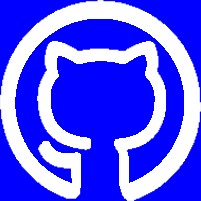
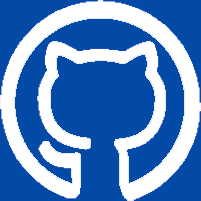
Added images for About Page and cleaned up some color in footer

diff --git a/css/style.css b/css/style.css
@@ -407,7 +407,7 @@ h6 {
 }
 /* Footer Content */
 .footerBlue {
-  background: #0000FF;
+  background: #034AA6;
   color: #ffffff;
   padding: 18px 0 20px;
   display: flex;
